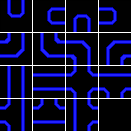
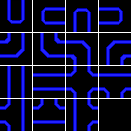
commit

diff --git a/src/Game/Gamemanager.cpp b/src/Game/Gamemanager.cpp
@@ -37,7 +37,7 @@ namespace Game
 	{
 		this->running = true;
 		//initialize game
-		this->map->loadFromFile("res/Maps/arena2.txt");
+		this->map->loadFromFile("res/Maps/arena3.txt");
 		cout << "Init graphics" << endl;
 		this->factory->getGraphicsHandler().init(this->map->getSize());
 		this->eventHandler = this->factory->createEventHandler();
@@ -94,9 +94,8 @@ namespace Game
 				if(this->map->getEntity(destination)->isPassable())
 				{
 					Location loc = this->map->getMovingEntity(i)->getLocation();
-					this->map->setEntity(this->map->getMovingEntity(i)->getLocation(), factory->createWall(loc, EMPTY_WALL));
-					this->map->setEntity(destination, this->map->getMovingEntity(i));
-					this->map->getMovingEntity(i)->setLocation(destination);
+					//cout << "Entity moved from [" << loc.x << "," << loc.y <<"] to [" << destination.x << "," << destination.y << "]" << endl;
+					this->map->moveEntity(i, destination);
 				}
 				else
 				{

diff --git a/src/Game/Map.cpp b/src/Game/Map.cpp
@@ -200,4 +200,17 @@ namespace Game
 		return this->movingEntities.size();
 	}
 
+	void Map::moveEntity(int i, Location destination) noexcept
+	{
+		Location loc = this->movingEntities[i]->getLocation();
+
+		//move entity on map
+		this->map[destination.x][destination.y] = this->movingEntities[i];
+		//set empty entity on src location
+		this->map[loc.x][loc.y] = Gamemanager::getInstance().getFactory()->createWall(loc,EMPTY_WALL);
+		//update location in entity
+		this->movingEntities[i]->setLocation(destination);
+
+	}
+
 } /* namespace Game */

diff --git a/src/Game/Map.h b/src/Game/Map.h
@@ -40,12 +40,15 @@ namespace Game
 		void setEntity(Location location, shared_ptr<Entity> entity) noexcept;
 		const shared_ptr<Entity> getEntity(Location location) noexcept;
 		bool loadFromFile(string path);
+
 		const unsigned int getSizeX() noexcept;
 		const unsigned int getSizeY() noexcept;
 		const Location getSize() noexcept;
 
 		const shared_ptr<MovingEntity> getMovingEntity(int i) noexcept;
 		const int numberMovingEntities() noexcept;
+
+		void moveEntity(int i, Location destination) noexcept;
 	};
 
 } /* namespace Game */

diff --git a/src/Game/Util/AbstractFactory.h b/src/Game/Util/AbstractFactory.h
@@ -28,7 +28,6 @@ namespace Game
 		virtual shared_ptr<Pacman> createPacman(const Location& location)=0;
 		virtual shared_ptr<Wall> createWall()=0;
 		virtual shared_ptr<Wall> createWall(const Location& location)=0;
-		virtual shared_ptr<Wall> createWall(char type)=0;
 		virtual shared_ptr<Wall> createWall(const Location& location, char type)=0;
 		virtual shared_ptr<Event_Handler> createEventHandler()=0;
 		virtual Graphics_Handler& getGraphicsHandler()=0;

diff --git a/src/SDL/Util/SDLFactory.h b/src/SDL/Util/SDLFactory.h
@@ -27,7 +27,6 @@ namespace SDL
 		shared_ptr<Game::Pacman> createPacman(const Location& location);
 		shared_ptr<Game::Wall> createWall();
 		shared_ptr<Game::Wall> createWall(const Location& location);
-		shared_ptr<Game::Wall> createWall(char type);
 		shared_ptr<Game::Wall> createWall(const Location& location, char type);
 		shared_ptr<Game::Event_Handler> createEventHandler();
 		Game::Graphics_Handler& getGraphicsHandler();

diff --git a/src/Game/Events/Event.h b/src/Game/Events/Event.h
@@ -1,0 +1,27 @@
+/*
+ * Event.h
+ *
+ *  Created on: Mar 12, 2018
+ *      Author: Astrid
+ */
+
+#ifndef GAME_EVENTS_EVENT_H_
+#define GAME_EVENTS_EVENT_H_
+
+#include "EventType.h"
+
+namespace Game
+{
+
+class Event
+{
+private:
+	EventType type;
+public:
+	Event();
+	virtual ~Event();
+};
+
+} /* namespace Game */
+
+#endif /* GAME_EVENTS_EVENT_H_ */

diff --git a/src/SDL/Util/SDLFactory.cpp b/src/SDL/Util/SDLFactory.cpp
@@ -51,11 +51,6 @@ namespace SDL
 		return make_shared<SDL_Wall>();
 	}
 
-	shared_ptr<Game::Wall> SDL_Factory::createWall(char type)
-	{
-		return make_shared<SDL_Wall>(type);
-	}
-
 	shared_ptr<Game::Wall> SDL_Factory::createWall(const Location& location)
 	{
 		return make_shared<SDL_Wall>(location);

diff --git a/src/Game/Events/EventType.h b/src/Game/Events/EventType.h
@@ -1,0 +1,18 @@
+/*
+ * EventType.h
+ *
+ *  Created on: Mar 12, 2018
+ *      Author: Astrid
+ */
+
+#ifndef GAME_EVENTS_EVENTTYPE_H_
+#define GAME_EVENTS_EVENTTYPE_H_
+
+enum EventType
+{
+	KEY_UP, KEY_DOWN, WINDOW, MOUSE, QUIT
+};
+
+
+
+#endif /* GAME_EVENTS_EVENTTYPE_H_ */

diff --git a/src/Game/Events/Event.cpp b/src/Game/Events/Event.cpp
@@ -1,0 +1,22 @@
+/*
+ * Event.cpp
+ *
+ *  Created on: Mar 12, 2018
+ *      Author: Astrid
+ */
+
+#include "Event.h"
+
+namespace Game
+{
+
+Event::Event()
+{
+	this->type = QUIT;
+}
+
+Event::~Event()
+{
+}
+
+} /* namespace Game */

diff --git a/src/Game/Entities/Ghost.h b/src/Game/Entities/Ghost.h
@@ -10,6 +10,10 @@
 #include <string>
 #include "MovingEntity.h"
 
+//FOR A*
+//https://gamedev.stackexchange.com/questions/15/how-does-a-pathfinding-work
+
+
 namespace Game
 {
 	enum GhostType{INKY, CLYDE, BLINKY, PINKY};

diff --git a/src/Game/Entities/MovingEntity.h b/src/Game/Entities/MovingEntity.h
@@ -12,12 +12,6 @@
 
 namespace Game
 {
-
-	enum Direction
-	{
-		LEFT , DOWN , RIGHT , UP
-	};
-
 	const int DEFAULT_SPEED = 10;
 
 	class MovingEntity : public Entity

diff --git a/src/Game/Util/Util.h b/src/Game/Util/Util.h
@@ -7,4 +7,9 @@ typedef struct
 		unsigned int y;
 	}Location;
 
+enum Direction
+	{
+		LEFT , DOWN , RIGHT , UP
+	};
+
 #endif
